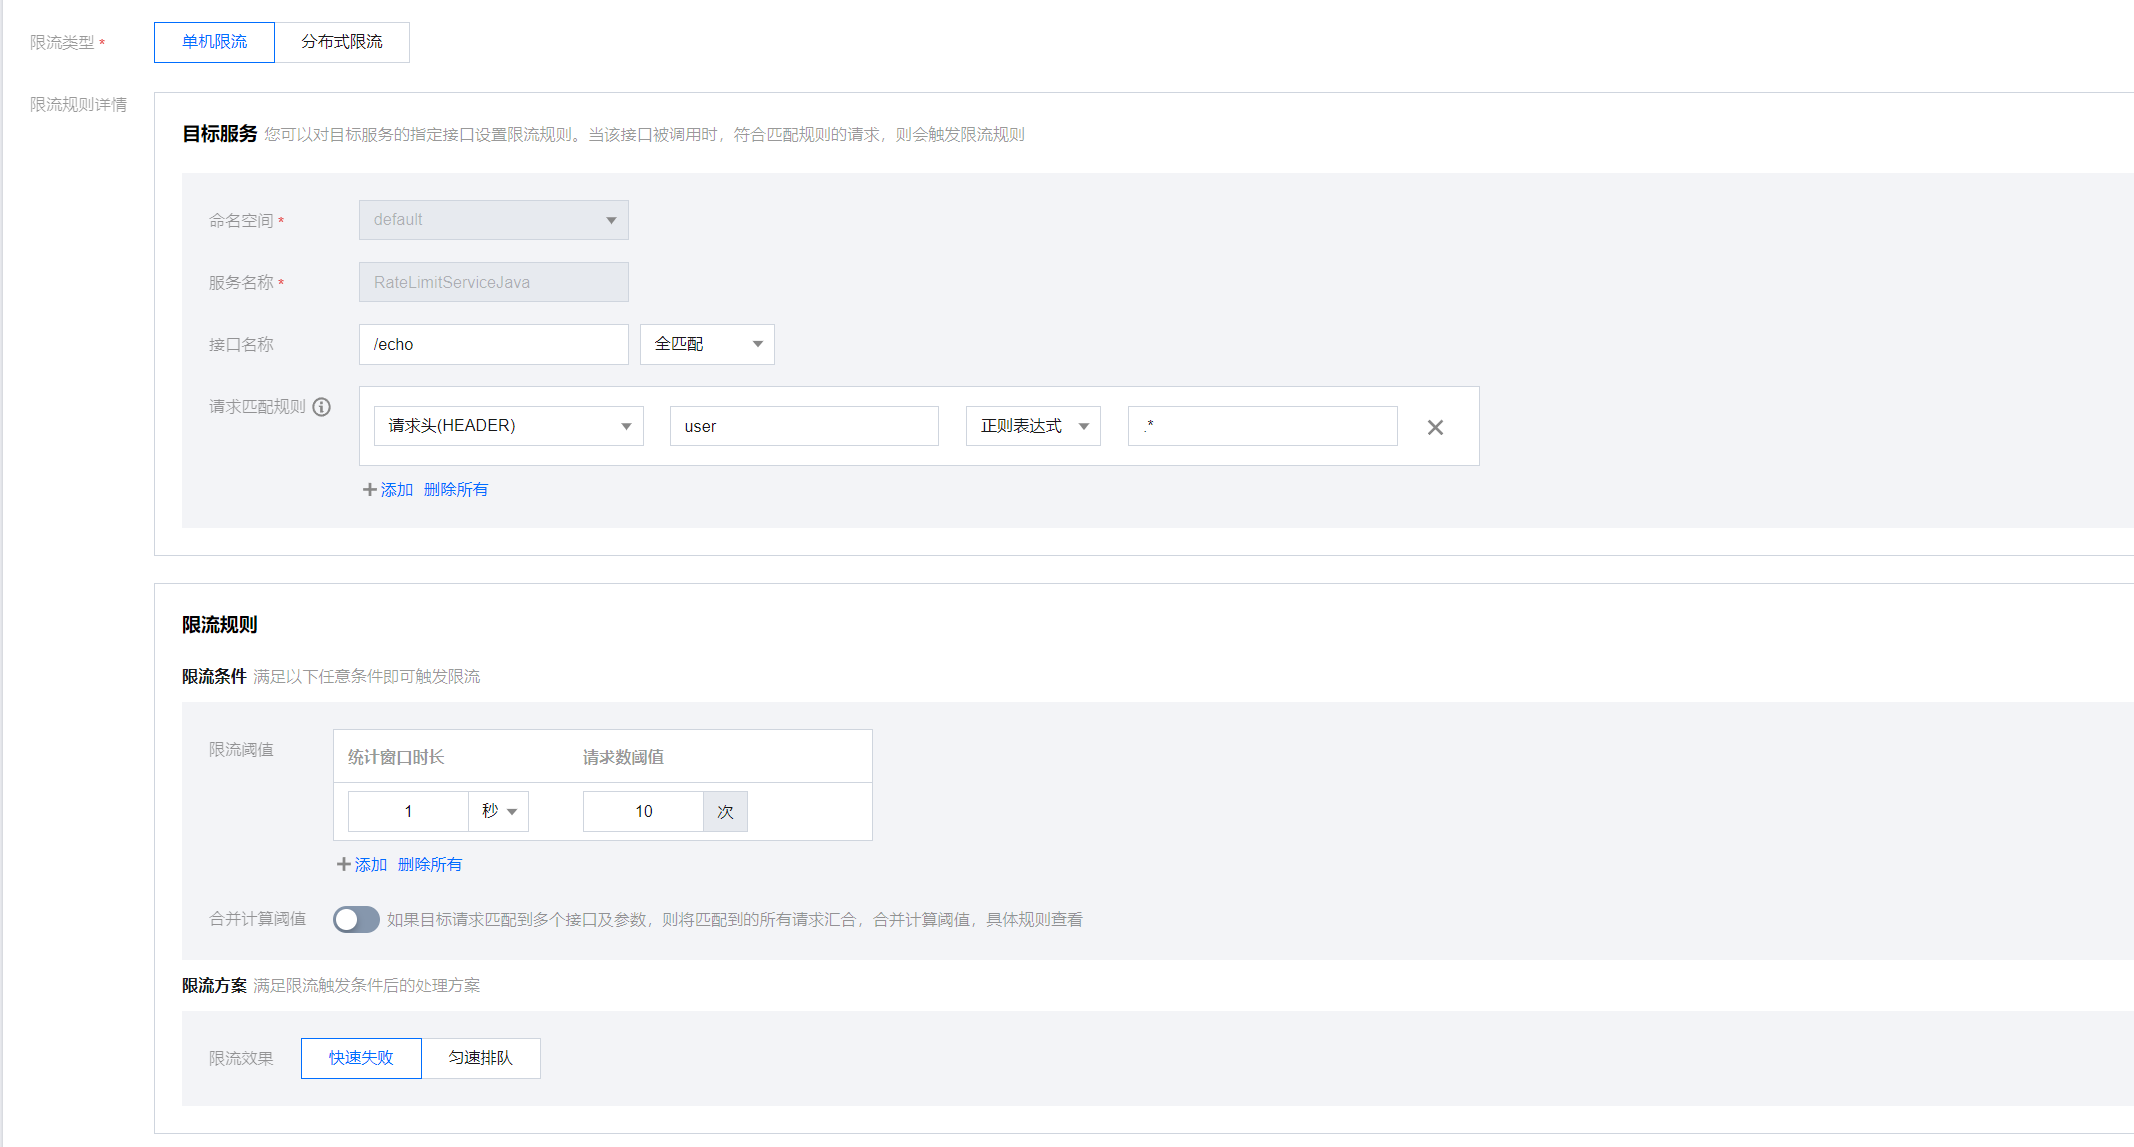
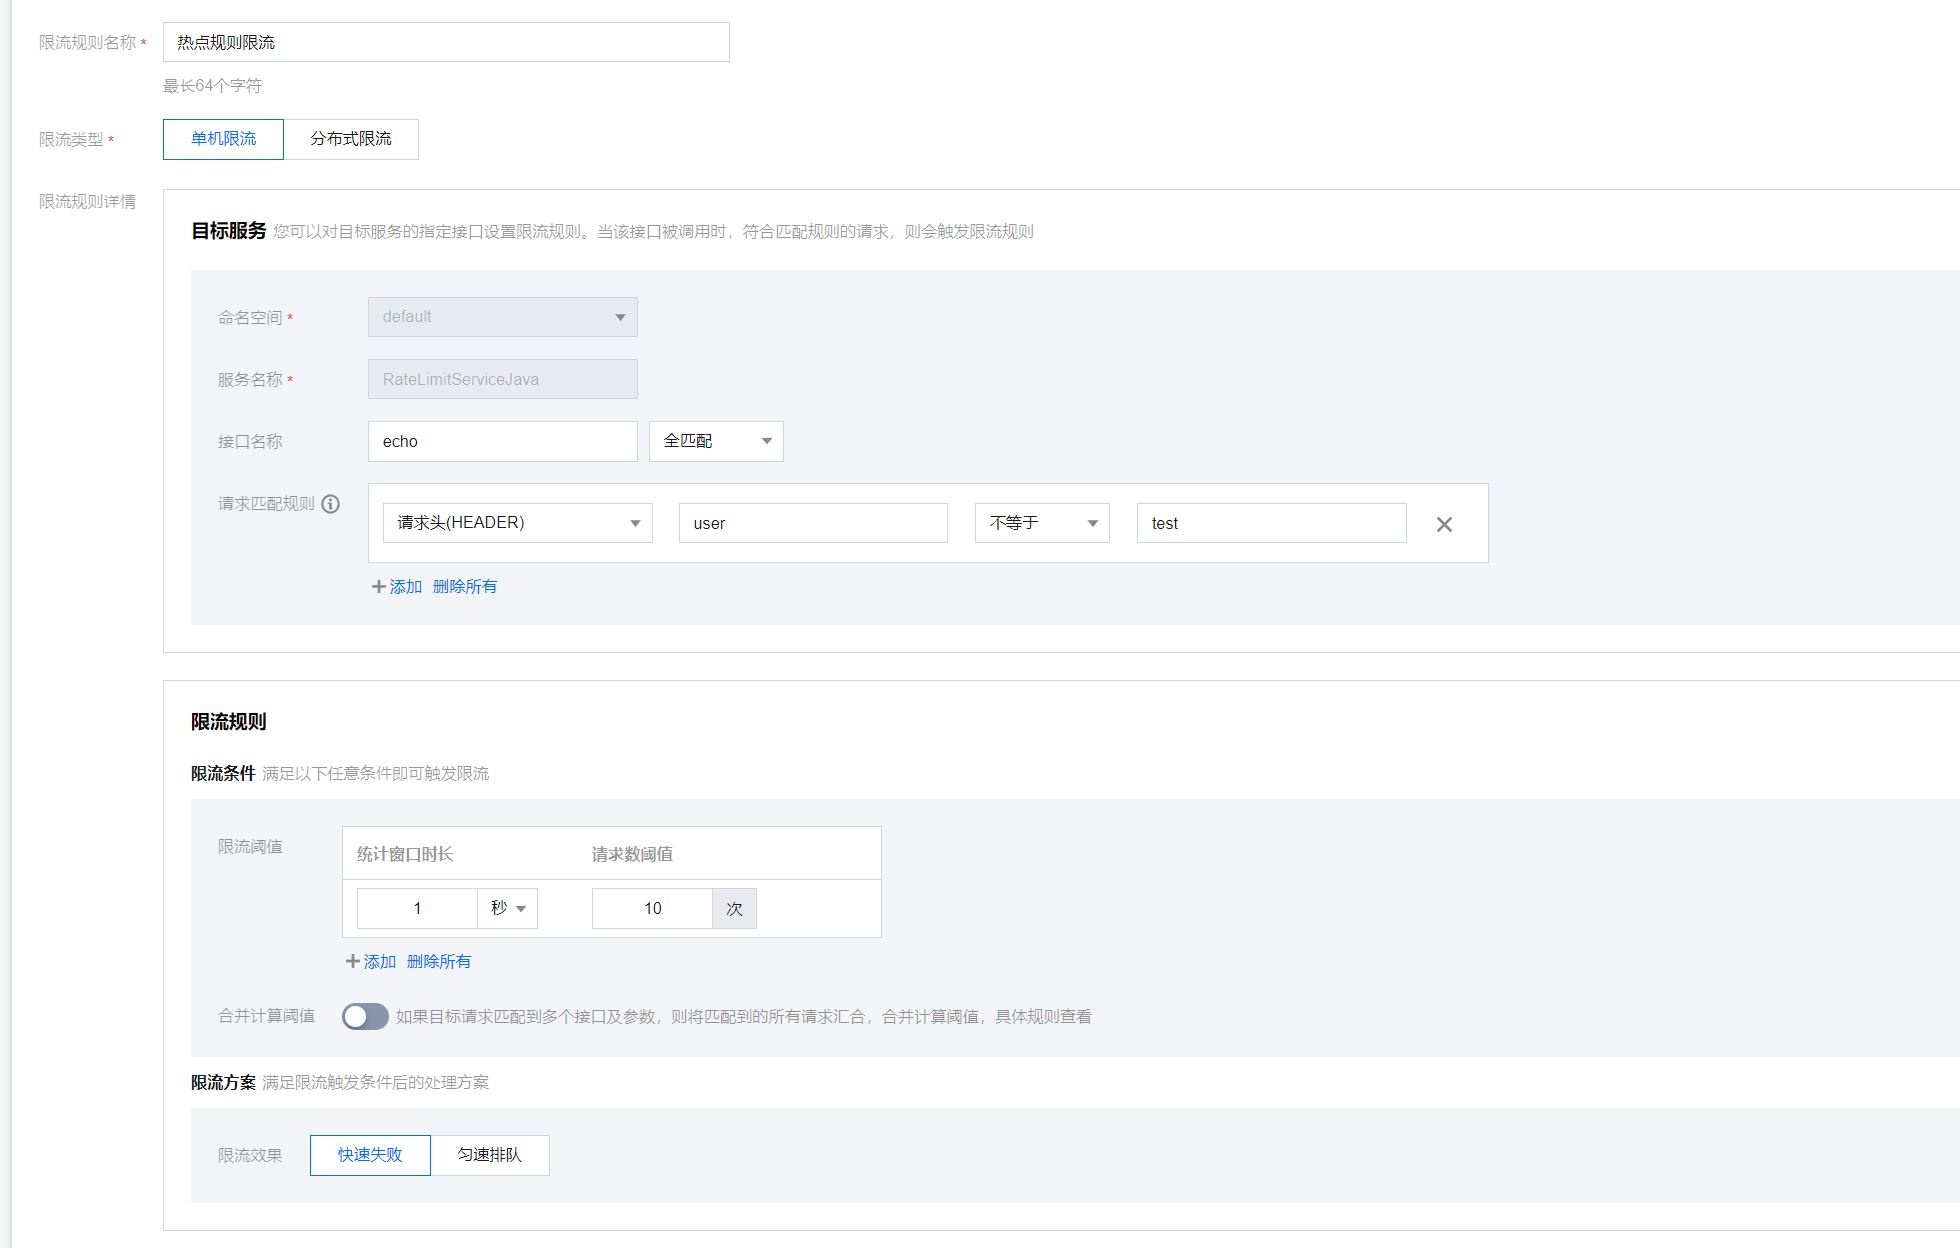
热点参数限流文档完善

diff --git a/content/zh-cn/docs/使用指南/控制台使用/服务网格/访问限流.md b/content/zh-cn/docs/使用指南/控制台使用/服务网格/访问限流.md
@@ -92,13 +92,13 @@ weight: 3
 
 在 RateLimitServiceJava 服务下新建限流规则，指定QPS为10，方法名为/echo，针对 http 请求中的 header user的每一个参数值进行单独限流，限流效果选择直接拒绝。
 
-![](../图片/访问限流/新建分布式限流规则.png)
+![](../图片/访问限流/新建单机热点参数限流规则.png)
 
 热点参数限流规则配置需要满足2个条件，否则无法生效：
- - 正则表达式匹配。接口名称或请求匹配规则配置中至少包含一条规则是通过正则表达式进行匹配。
- - 关闭合并计算阈值。该规则限流条件中的合并计算阈值选项处于关闭状态。
- 
- 热点参数限流是一种针对高并发请求中某些热点参数的限流策略；如上述规则的限流效果图如下：
+ - 存在非全匹配规则。”接口名称“、”请求匹配规则“配置中至少存在一条规则是非全匹配规则，比如”不等于“；如果全是全匹配规则，那该限流只是普通限流。
+ - 不启用”合并计算阈值“。
+
+热点参数限流是一种针对高并发请求中某些热点参数的限流策略；如上述规则的限流效果图如下：
 
 ![](../图片/访问限流/热点参数限流效果图.png)
 
